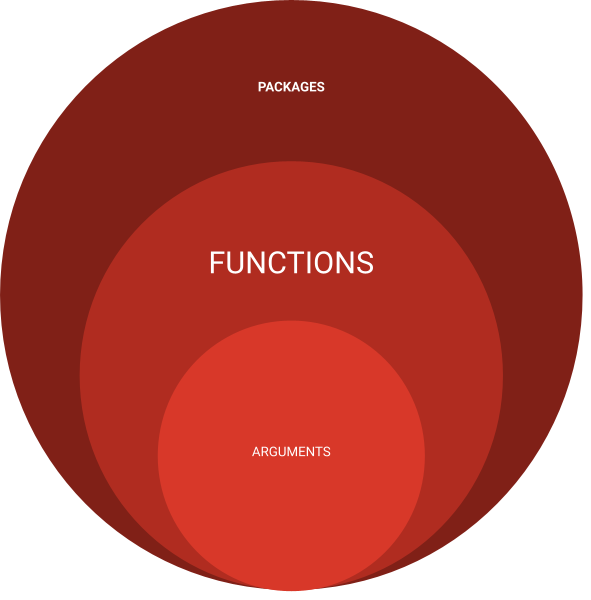
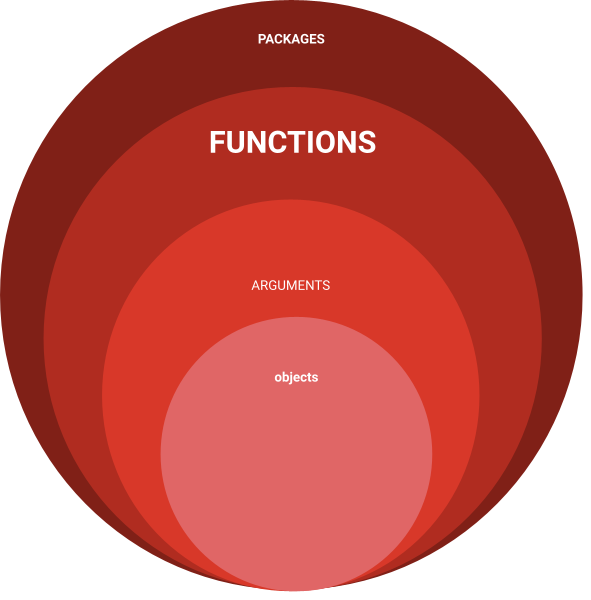
<lab1 commit update 3>

diff --git a/foundation_lab_1/reproducible_research_slides/reproducible_research.html b/foundation_lab_1/reproducible_research_slides/reproducible_research.html
@@ -4,7 +4,7 @@
     <title>Reproducible Research</title>
     <meta charset="utf-8" />
     <meta name="author" content="Presenter Name, Author Two, Author Three" />
-    <meta name="date" content="2022-05-31" />
+    <meta name="date" content="2022-06-01" />
     <script src="libs/header-attrs-2.14/header-attrs.js"></script>
     <link href="libs/remark-css-0.0.1/default.css" rel="stylesheet" />
     <link href="libs/panelset-0.2.6/panelset.css" rel="stylesheet" />
@@ -37,7 +37,7 @@ class: clear, title-slide, inverse, center, top, middle
 # Reproducible Research
 ----
 ### **Presenter Name**, Author Two, Author Three
-### May 31, 2022
+### June 01, 2022
 
 ---
 # Agenda
@@ -229,6 +229,7 @@ Part 2:
 Code-Along
 
 ---
+# R Programming Basics
 
 .panelset[
 
@@ -265,16 +266,6 @@ The history tab allows you to see the commands that you have entered.
 &lt;img src="img/global.png" height="425px"/&gt;
 ]
 ]
-
-.panel[.panel-name[New Script]
-.center[
-&lt;img src="img/r_script.png" height="425px"/&gt;
-]
-
-]
-
-
-]
 ???
 
 
@@ -285,7 +276,10 @@ customize the IDE to better suite your workflow
 - move panes around
 - so much more
 
-]
+
+.panel[.panel-name[New Script]
+.center[
+&lt;img src="img/r_script.png" height="425px"/&gt;
 ]
 ???
 
@@ -295,6 +289,136 @@ Let's set up our Global Options for a smooth workflow
     + 2. `R General` -&gt; Save workspace to .RData on exit: Never
     + 3. `R Markdown` -&gt; Show output preview in: Viewer Pane
 ]
+.panel[.panel-name[Programming]
+- Objects are the nouns of the R language
+	+ owen_meany &lt; - mean(numeric_vector)
+- Functions are the verbs
+	+ owen_meany &lt; - mean(numeric_vector)
+- Arguments are the adverbs or the direct object
+	+ owen_meany &lt; - mean(numeric_vector)
+As in any sentence, there is also “punctuation” 
+	+ owen_meany &lt; - mean(numeric_vector)
+
+
+]
+
+
+]
+
+
+---
+# Functions
+
+.panelset[
+
+.panel[.panel-name[Functions]
+
+.center[
+&lt;img src="img/functions.png" height="425px"/&gt;
+]
+]
+
+???
+Functions: are everything you do in R. 
+
+.panel[.panel-name[Structure]
+- mean()
+- filter()
+
+
+
+```r
+#round pi
+*round(3.14)
+```
+
+```
+## [1] 3
+```
+
+]
+]
+???
+Say you want to take the mean of a number, you would write mean( )
+Suppose you want to round a number, you would use round( ) and put the number inside the parentheses. Make sure to look in the console pane to see the answer.
+- Functions always include parenthesis
+
+---
+# Arguments
+
+.panelset[
+
+.panel[.panel-name[Arguments]
+
+.center[
+&lt;img src="img/arguments.png" height="425px"/&gt;
+]
+]
+
+.panel[.panel-name[Structure]
+
+
+```r
+#use help to look at arguments
+?round
+```
+
+```
+## starting httpd help server ... done
+```
+
+```r
+#round pi to two digits
+*round(3.14, digits = 2)
+```
+
+```
+## [1] 3.14
+```
+
+]
+
+???
+- We talked about the help window or pane earlier. You can add a question mark before the round() function to look at the arguments. 
+
+- Look for an argument that you can add to pi to round to the nearest 1 decimal places
+HINT look under USAGE in the arguments help section
+
+]
+
+
+---
+# Objects
+.panelset[
+
+.panel[.panel-name[Objects]
+
+.center[
+&lt;img src="img/objects.png" height="425px"/&gt;
+]
+Objects: are everything you have in R - things that you save like data frames in tabular form. Think back when you have used excel and you had to save your spread sheet and name it. That is comparable to an object. 
+
+To save something into an object we need to use the assignment operator &lt;-.  The assignment operator is used for assignment operation. Operator that assigns a certain value to a variable and scope is within the function and outside as well. 
+
+???
+
+]
+.panel[.panel-name[Structure]
+
+```r
+*twenty &lt;-20
+*forty &lt;- 20
+```
+
+]
+]
+???
+
+
+We will save the number 20 to the word twenty. I could have easily called the new object any other name to save as the object. Then I can **call** the number by typing twenty in and running it.
+
+Don’t ever want to use TRUE/FALSE, those are reserved for testing logical variables.
+Also, NaN, inf and NA are reserved for outcomes such as whether a variable is negative or positive infinity, not a number, or missing.
 ---
 #Packages
 
@@ -308,12 +432,14 @@ Let's set up our Global Options for a smooth workflow
 
 ]
 ???
+You only install the package once, ever...mostly ever :). But, you will need to read in the package to Rstudio for each session. Sometimes during the session.
+
 There are about eight packages supplied with the R distribution and many more are available through the CRAN family of Internet sites covering a very wide range of modern statistics, and machine learning. If you need r to do something then there's probably a package for that.
 
-.panel[.panel-name[install]
+.panel[.panel-name[Structure]
 
-- 1st  Install tidyverse always use quotations for install
-install.packages("tidyverse")
+1.  Download packages to computer with `intall.packages("")`.
+2.  Read in package to Rstudio with `library()`
 
 
 ```r
@@ -340,22 +466,10 @@ install.packages("tidyverse")
 
 
 ]
+???
+
 
 ]
-
----
-# Showing Your Code
-
-```r
-# adding #&lt;&lt; after a line of code highlights it like this 
-*alphabet &lt;- letters
-print(alphabet)
-```
-
-```
-##  [1] "a" "b" "c" "d" "e" "f" "g" "h" "i" "j" "k" "l" "m" "n" "o" "p" "q" "r" "s"
-## [20] "t" "u" "v" "w" "x" "y" "z"
-```
 
 
 
